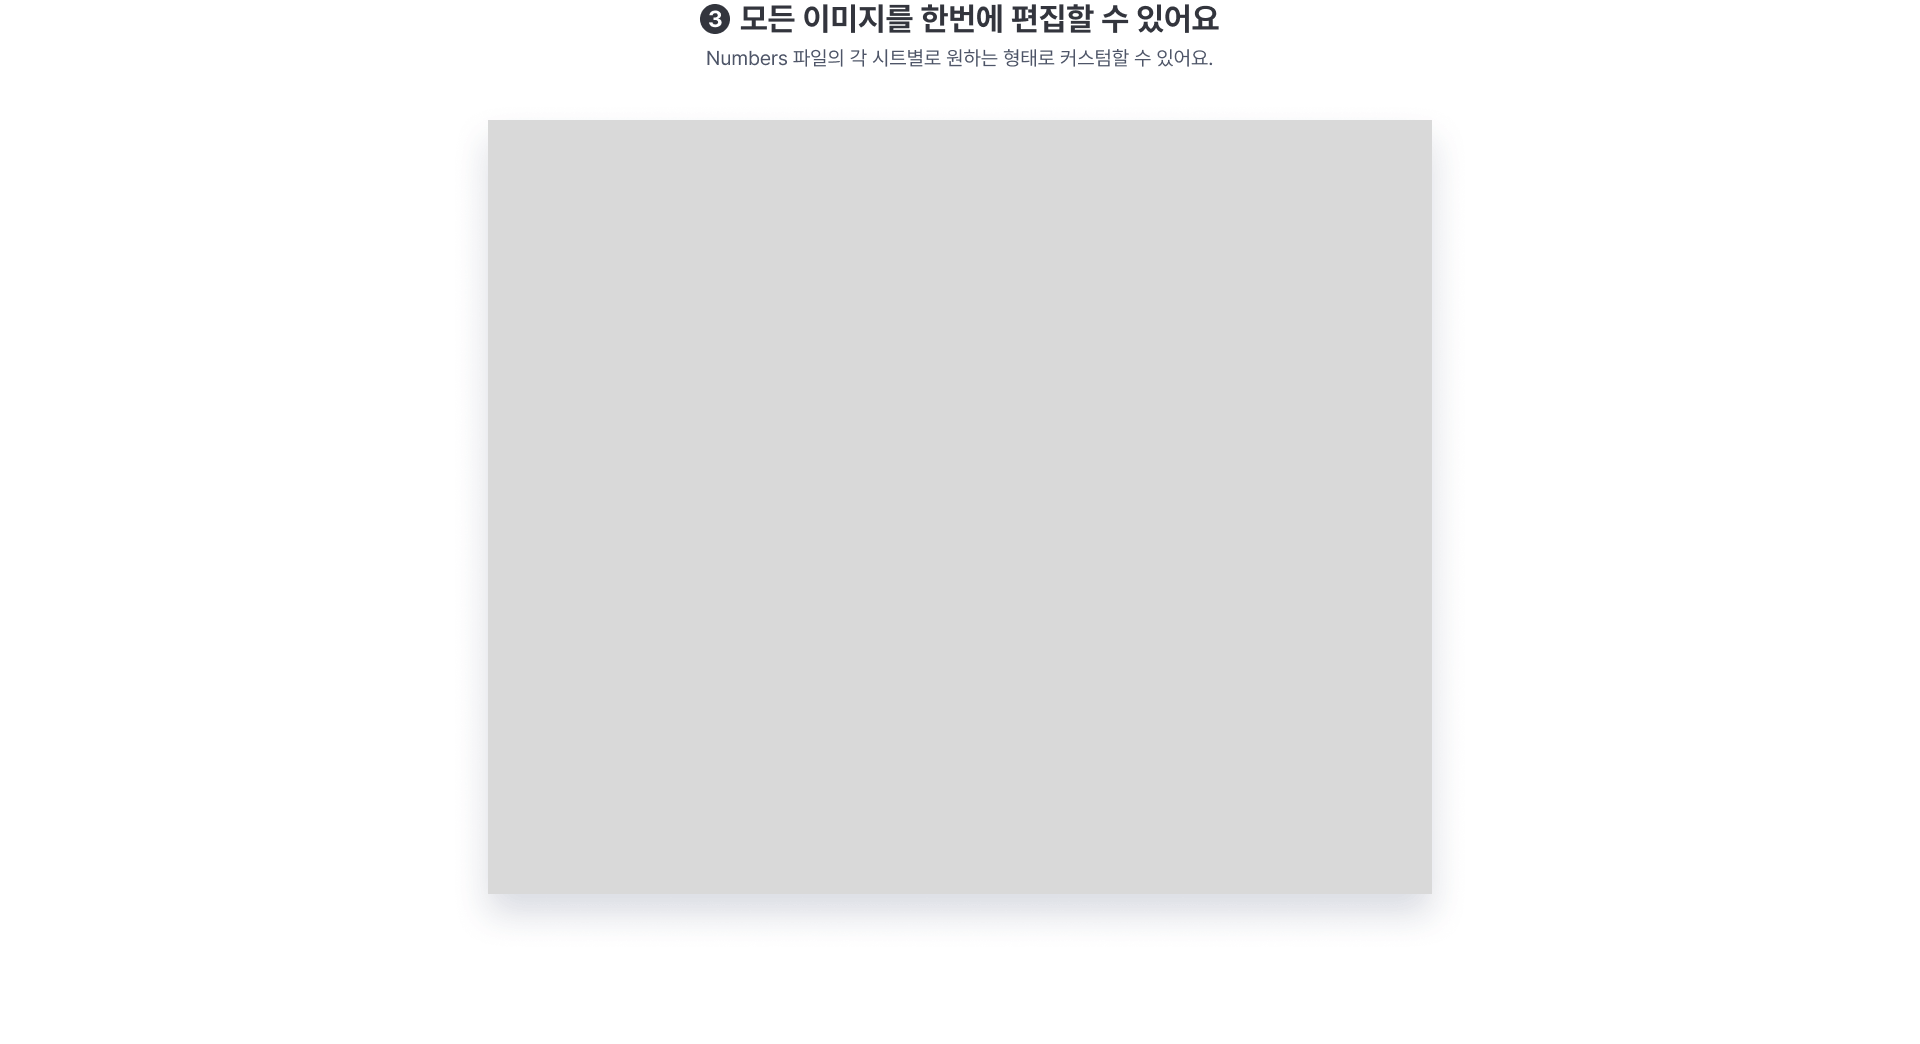
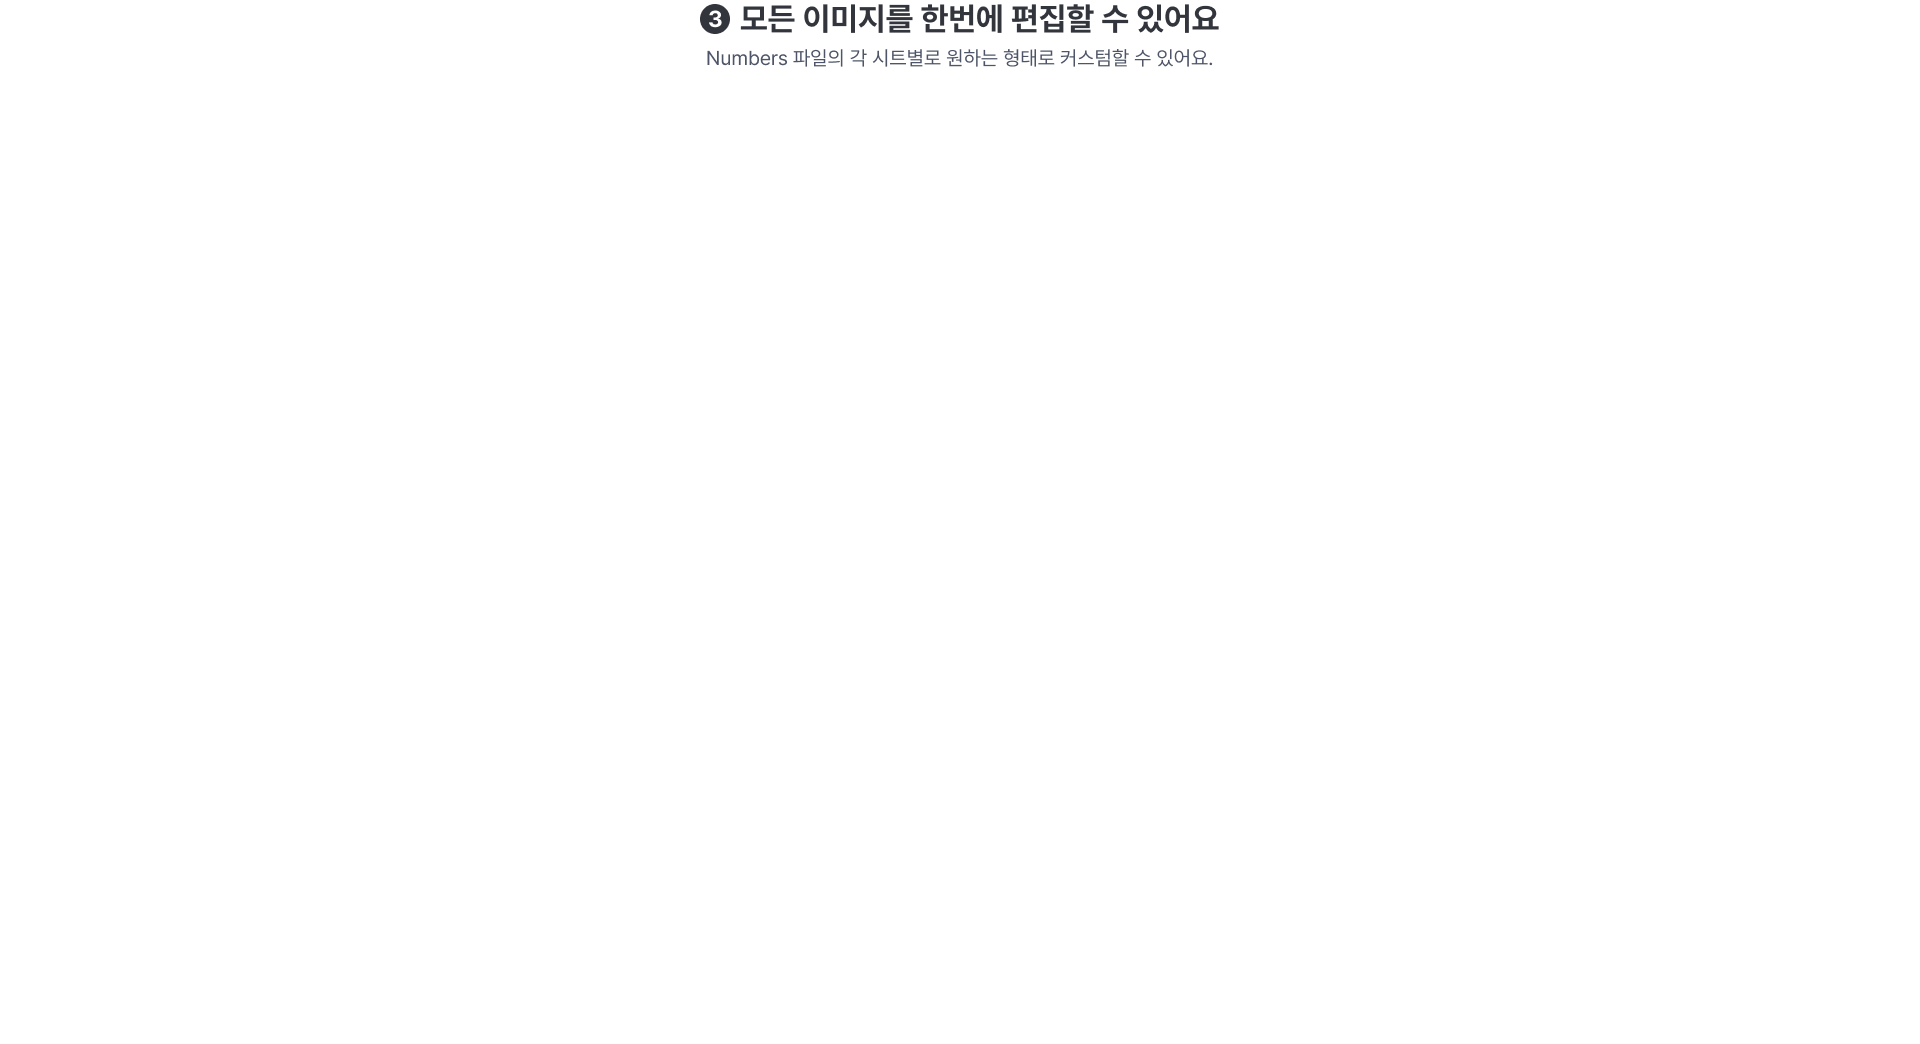
web

diff --git a/index.html b/index.html
@@ -7,7 +7,7 @@
 </head>
 <body>
     <div class="title">
-        <div class="inner-container">
+        <!-- <div class="inner-container">
             <div class="img-container">
                 <img class="img" alt="Group 1" src="00_header.png">
             </div>
@@ -43,7 +43,7 @@
             </div>
 
             <img class="img" alt="Group 1" src="07_end.png">
-        </div>
+        </div> -->
 
     </div>
     
